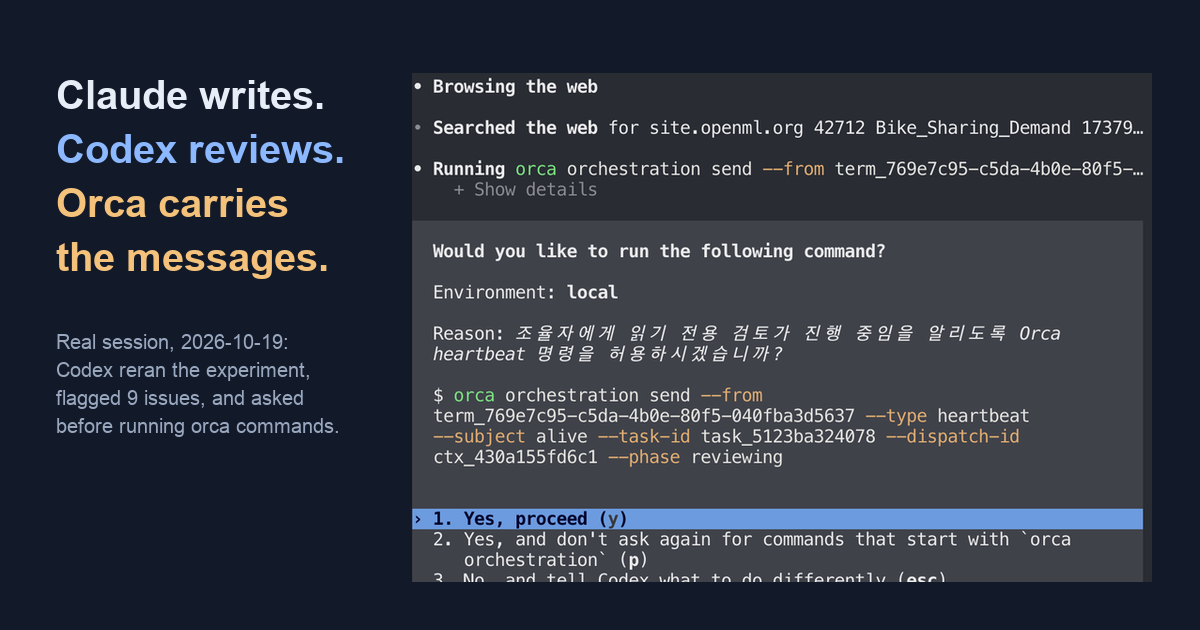
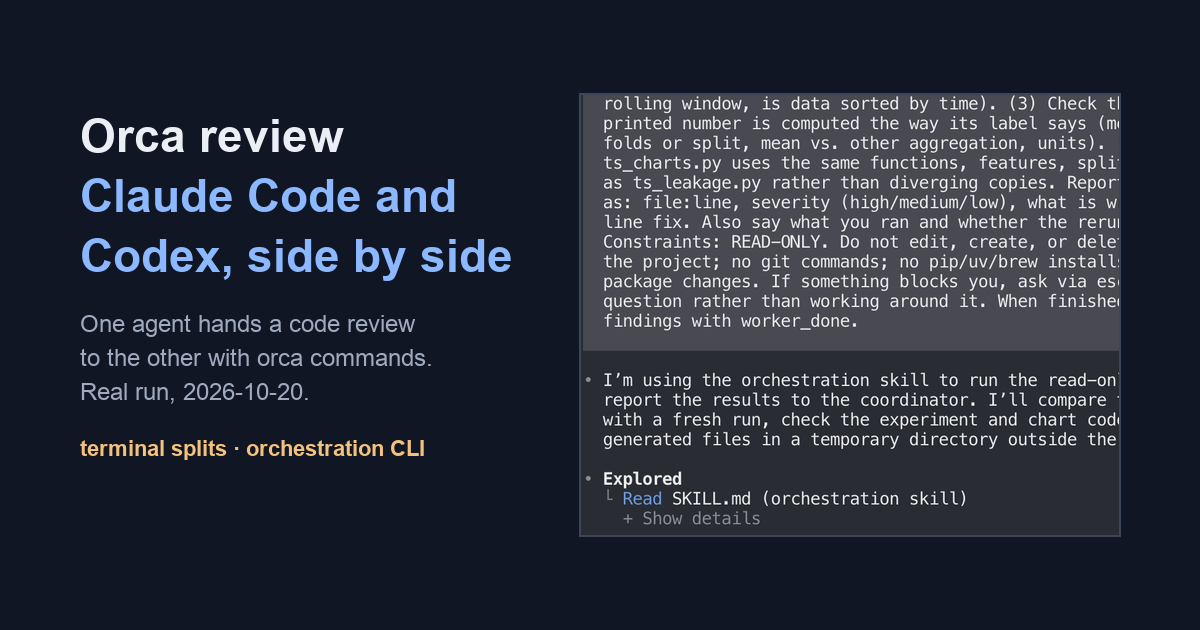
post: rewrite Orca post as a feature review with a code-review run

diff --git a/tips/_posts/2026-10-23-orca_claude_codex_review.md b/tips/_posts/2026-10-23-orca_claude_codex_review.md
@@ -1,122 +1,153 @@
 ---
 layout: post
-title: "Claude Code writes, Codex reviews: a cross-check workflow with Orca"
+title: "Orca review: Claude Code and Codex side by side, and one agent handing work to the other"
 description: >
-  One real session: Claude Code drafted a blog post, then handed a read-only review to Codex through Orca's
-  orchestration commands. Codex reran the experiment, confirmed every number and flagged 9 issues. The exact
-  commands, what each step returns, and where it still needs a human.
+  A hands-on look at Orca, an open-source desktop app for running CLI coding agents side by side. What it does,
+  how its orchestration commands let Claude Code hand a code review to Codex, what that review found, and the one
+  setting to check before you rely on it.
 image: /assets/img/tips/orca_claude_codex_review/cover.png
 sitemap:
   changefreq: daily
   priority: 1.0
 ---
 
-# Claude Code writes, Codex reviews: a cross-check workflow with Orca
+# Orca review: Claude Code and Codex side by side, and one agent handing work to the other
 
-A coding agent is good at checking code and bad at checking its own reasoning. A cheap fix is a second agent from a
-different vendor that reviews the first one's work. [Orca](https://github.com/stablyai/orca) is an open-source
-(MIT) desktop app for running several CLI coding agents side by side, and its `orca` command line lets one agent hand a
-task to another and wait for the answer.
+[Orca](https://github.com/stablyai/orca) is an open-source (MIT) desktop app for running several CLI coding agents at
+once. Its README lists Codex, Claude Code, OpenCode and Pi, on macOS, Windows and Linux, and each agent runs with your
+own subscription. Orca does not ask for an API key.
 
-This post follows one real session. Claude Code wrote this week's post on
-[time-series cross-validation](/blog/2026-10-23-timeseries_cv_leakage/), then asked Codex, running in the next pane,
-for a read-only review. Codex reran the experiment, confirmed that every number matched, and flagged 9 issues, three of
-them serious enough to change what the post claimed.
+Most of its features are about running agents in parallel. The one this post looks at is smaller: the `orca` command
+line lets one agent hand a task to another and wait for the answer. I used it to have Claude Code send a read-only code
+review to Codex, a coding agent from a different vendor, so that the same code is checked by a different model.
 
-_Session on 2026-10-19 with Orca 1.4.220 on macOS, Claude Code (Claude Opus 5.5) and Codex CLI 0.162.1. Both agents use
-their own subscriptions; Orca adds no API key. Day to day, the blog's author switches between the two agents by hand; this
-session used Orca's orchestration commands on purpose so the steps could be recorded._
+_Tested on 2026-10-20 with Orca 1.4.220 on macOS, Claude Code 2.1.304 and Codex CLI 0.162.1. The latest Orca release
+at the time was 1.4.230 (2026-10-19). Repository facts as of 2026-10-20._
 
-![Orca with Claude Code on the left and Codex on the right, reviewing the same draft](/assets/img/tips/orca_claude_codex_review/split.png)
+![Orca with Claude Code on the left and Codex on the right, working on the same experiment folder](/assets/img/tips/orca_claude_codex_review/split.png)
 
-_The two panes during the review. The Claude Code session on the left is in Korean; the Codex pane on the right has just
-read the scikit-learn documentation and is asking permission to report progress. Two local paths and an internal
-runtime ID are redacted._
+_The tab right after the hand-off. Left: Claude Code with the instruction I gave it and its first steps. Right: Codex
+has received the task, is reading Orca's orchestration guide and starts on the project files. One line with local paths
+is redacted._
 
-## The setup: two panes, one repository
+## What Orca gives you
 
-Both agents work in the same folder. Claude Code was already open in an Orca terminal tab; the right pane was opened by
-splitting that tab and starting `codex` in it. The same split can be made from the command line:
+| Feature | What it does | Used here |
+|---|---|---|
+| Terminal splits | Several agents in one window, one pane each | Yes |
+| Orchestration CLI | `orca orchestration ...`: runs, tasks, dispatches, messages between panes | Yes |
+| Agents panel | Every running agent as a card, grouped by state | Yes |
+| Parallel worktrees | One prompt to several agents, each in its own git worktree | No |
+| Mobile companion | Watch and answer agents from a phone | No |
+| Design Mode, GitHub/Linear, SSH worktrees | Browser element picking, issue boards, remote machines | No |
+
+The rows marked "No" come from the README; I did not test them.
+
+## The setup: two panes, one folder
+
+The folder held a small scikit-learn experiment: `ts_leakage.py` compares shuffled KFold, KFold and TimeSeriesSplit on
+hourly bike-sharing data, `ts_charts.py` draws its charts, and `ts_leakage_out.txt` is a saved run. I opened a new Orca
+tab in that folder, started `claude` in it, split the tab to the right and started `codex`. The same split works from
+the command line:
 
 ```bash
 orca terminal split --terminal <claude-pane-handle> --command "codex"
 ```
 
-`orca terminal list` shows each pane's handle (`term_...`). The handle is how one agent addresses the other.
+Every pane has a handle (`term_...`, listed by `orca terminal list`). The handle is how one agent addresses another.
 
 ## The hand-off: a run, a task, a dispatch
 
-Orca's orchestration layer has three objects. A **run** is a mailbox for one piece of coordinated work. A **task** is the
-work itself, written as a self-contained instruction. A **dispatch** is one attempt at the task in one terminal.
-Claude Code ran these from its own pane:
+Orca's orchestration layer has three objects. A **run** groups one piece of coordinated work. A **task** is the work
+itself, written as a self-contained instruction. A **dispatch** sends a task to one terminal. Claude Code ran these
+from its own pane:
 
 ```bash
-orca orchestration run-create --objective "Cross-review the 2026-10-23 blog draft ..." --json
-orca orchestration task-create --run run_5d67d5be5900 --task-title "Codex review: time-series CV leakage draft" \
-  --spec "Read-only cross-review of a blog draft. Do NOT edit ... Check (1) every number against the recorded output; ..." --json
-orca orchestration dispatch --task task_5123ba324078 --to term_769e7c95-... --run run_5d67d5be5900 --inject --json
+orca orchestration run-create --objective "Code review: ts_leakage.py time-series CV experiment" --json
+orca orchestration task-create --run run_c0665c6e6845 --task-title "Codex code review: ts_leakage.py" \
+  --spec "READ-ONLY code review. ... (1) Rerun ts_leakage.py and diff its stdout against ts_leakage_out.txt ..." --json
+orca orchestration dispatch --task task_6508bc75dd09 --to term_2ca14938-... --run run_c0665c6e6845 --inject --json
 ```
 
-`--inject` types the task into the Codex prompt, below a short header with the task and dispatch IDs. The task spec named
-the files, what to check, what not to touch (no edits, no git), and what a finished report must contain. Orca's bundled
-orchestration guide asks for exactly those parts: target, change, constraints, ownership and observable acceptance.
+`--inject` types the task into the Codex prompt, so Codex starts working without anyone switching panes. The spec
+Claude Code wrote had four checks: rerun the script and diff the output, look for leakage in the lag and rolling
+features and the splits, confirm every printed number is computed the way its label says, and confirm the chart
+script reuses the same functions. It also set the rules: no edits, no git, no installs, and report each finding with
+`file:line`, a severity and a one-line fix.
+
+The task is stored with the run, so the full instruction can be read back later:
+
+```text
+$ orca orchestration task-list --run run_c0665c6e6845
+task_6508bc75dd09 [dispatched] Codex code review: ts_leakage.py -> term_2ca14938-... (ctx_995037d2fd51)
+```
+
+## Keeping track: the agents panel
+
+While the two agents worked, Orca's agents panel showed both of them as cards. The panel groups agents into three
+columns, which my Korean-language interface labels "needs attention", "working" and "done". Each card shows the
+latest prompt or message in that pane, so you can see at a glance which agent is still busy without switching tabs.
+
+![Orca's agents panel with two cards in the working column: the Codex pane with the injected task, and the Claude Code tab with the experiment prompt](/assets/img/tips/orca_claude_codex_review/dashboard.png)
+
+_The agents panel during the review, cropped to the two cards from this session. The interface language is Korean._
+
+## What Codex found
+
+Codex worked for 4 minutes 29 seconds. It reran both scripts, and all 41 lines of output matched the saved run byte for
+byte. It checked that every lag looks backward, that no model or scaler is fitted before the split, and that
+`gap=168` covers the longest lag. Then it listed four findings:
+
+| Where | Severity | Finding |
+|---|---|---|
+| `ts_leakage.py:34, 74` | medium | Test rows use earlier true test values through `lag_1` (1,343 of 1,344 holdout rows). Fine for one-step-ahead evaluation, a leak if the whole block is forecast at once. The protocol should be stated. |
+| `ts_leakage.py:56`, `ts_charts.py:42, 82` | low | "8 weeks" is 1,344 rows that span 1,348 hours, because four hours are missing from the data. |
+| `ts_leakage.py:72-74` | low | Rolling features are computed after the first 168 rows are dropped, which leaves 2 and 3 avoidable empty values. |
+| `ts_leakage.py:85-91` | low | The lag-timing check counts all eligible rows; over the rows the model uses, `lag_24` is exact in 90.9% instead of 90.2%. |
+
+I reran each claim in the same environment and all four held. None of them changes a result: the first two were
+already stated in the [post that uses this experiment](/blog/2026-10-23-timeseries_cv_leakage/), and the last two are
+labelling details. Even so, this is the kind of check that a quick reread of your own code tends to skip.
 
 ## Waiting for the answer
 
-Claude Code then blocked on the run's mailbox:
+The coordinating agent collects the result from the run's mailbox:
 
 ```bash
-orca orchestration check --wait --types "worker_done,escalation,question" --timeout-ms 1500000 --json
+orca orchestration check --run <run_id> --wait --types "worker_done,escalation,question" --timeout-ms 1500000 --json
 ```
 
-Two messages arrived: a heartbeat (`"phase": "reviewing"`) about two minutes after the dispatch, then the result about
-five minutes after it. After each one, the coordinator acknowledges the delivery (`check --ack <delivery_id>`) so the
-next can arrive. The run's record afterwards:
+The worker sends a `heartbeat` while it works and one `worker_done` message with the outcome at the end. After each
+message the coordinator acknowledges it (`check --ack <delivery_id>`) and waits for the next.
 
-```text
-$ orca orchestration run-show --id run_5d67d5be5900
-run_5d67d5be5900 Cross-review the 2026-10-23 blog draft on KFold vs TimeSeriesSplit leakage (Claude writes, Codex reviews read-only)
-consumer generation 1; created 2026-10-19T04:23:43Z
+## Before you rely on it: let the worker reach Orca
 
-$ orca orchestration task-list --run run_5d67d5be5900
-task_5123ba324078 [completed] Codex reviewer
-```
+The worker reports back by running `orca` commands itself, and Codex runs commands inside a sandbox. With Codex's
+default approval settings it asks before running them. Answer "Yes", or pick "don't ask again for commands that start
+with `orca orchestration`". If approval prompts are turned off, the sandbox blocks the command, the report never
+reaches the coordinator and the task stays `dispatched`. Check this setting before you leave a long review running.
 
-## What the review caught
+## What works well
 
-The result came as one `worker_done` message with `"outcome": "succeeded"`. Codex wrote it in Korean because the
-session was in Korean; summarised in English:
-
-- **Numbers:** it reran the script, and every MAE, fold score and row count matched the recorded output.
-- **Wrong advice (serious):** the draft said `max_train_size` helps when early folds have too little data. It doesn't;
-  it only caps the training size. Codex measured it: the first fold stayed at 2,647 rows with `max_train_size=10000`,
-  and grew to 9,147 with `test_size=1344`.
-- **Wrong advice (serious):** the draft said a weekly lag feature needs `gap`. Lags built only from past values don't.
-- **Missing condition (serious):** the holdout fed real observed values into the lag columns, so the result measured
-  one-step-ahead prediction, not an 8-week forecast. The draft didn't say so.
-- **Smaller points:** "hours" that were really rows (lag_168 is exactly a week earlier in only 68.8% of rows), a
-  train/serve mismatch result that needed its own name, two over-confident sentences, and cover text sitting a little
-  too close to the edge.
-
-Claude Code reproduced each factual claim before changing the post, and all of them held. The published post is the
-corrected version.
+- **No extra keys or billing.** Both agents run on their own subscriptions inside ordinary terminals.
+- **A written spec.** `task-create` pushes you to state the target, the constraints and what a finished answer looks
+  like. That made the review sharper than a quick "can you check this?" typed into the other pane.
+- **A record.** The run, the task and its full spec stay queryable with `run-show` and `task-list`.
+- **A second model.** Claude Code wrote the experiment; Codex, from a different vendor, read it without the first
+  agent's assumptions.
 
 ## Where it still needs a human
 
-- **Approvals.** With default settings, Codex asked for permission before running the `orca` reporting commands (the
-  cover image shows one of those prompts). Someone had to press "Yes" for the heartbeat and the final report to go out.
-  Codex offers "don't ask again for commands that start with `orca orchestration`", which removes that stop.
-- **Judgement.** The reviewer flags; it does not decide. Each serious point still had to be checked, and accepting a
-  wrong suggestion would have made the post worse, not better.
-- **Clean-up depends on who opened the pane.** `orca orchestration worker-release` returned `"state": "retained"` with
-  `"reason": "no_owned_resource"`: the Codex pane was opened by hand, so Orca left it running. A worker started with
-  `orca orchestration worker-start` is owned by the run and can be released by it.
+- **Judgement.** The reviewer flags; it does not decide. Every finding above had to be rerun before I trusted it.
+- **Clean-up depends on who opened the pane.** `orca orchestration worker-release` leaves a pane you opened by hand
+  running (`"reason": "no_owned_resource"`). A worker started with `orca orchestration worker-start` belongs to the
+  run and can be released by it.
 
-## When this is worth it
+## Verdict
 
-For a quick question, typing into the second agent's pane is enough. The run, task and dispatch pay off when you want
-the review written down: a self-contained spec, a result with an explicit outcome, and a record you can look up later
-with `run-show`. Here it took about five minutes of Codex time and caught three mistakes that a quick reread had missed.
+For a quick question, typing into the second agent's pane is enough. Orca's orchestration commands pay off when you
+want the hand-off written down: a self-contained spec, a review that reruns the code, and a record you can look up
+later. Here that took one tab, two agents and under five minutes of review time, with no API key involved.
 
 Related: [Why fit preprocessing on training data only? A data leakage demo](/blog/2026-10-02-data_leakage_preprocessing/) ·
 [How do you evaluate LLM answers? Exact match vs key facts vs LLM-as-judge](/tips/2026-10-13-evaluate_llm_answers/)

diff --git a/blog/_posts/2026-10-23-timeseries_cv_leakage.md b/blog/_posts/2026-10-23-timeseries_cv_leakage.md
@@ -164,9 +164,8 @@ interpolation, and leaky features survive any row split. The tables and charts c
 [`ts_charts.py`](/assets/code/timeseries_cv_leakage/ts_charts.py); the dataset downloads through
 `sklearn.datasets.fetch_openml` on the first run.
 
-Before publishing, this draft was cross-checked by a second AI agent (OpenAI Codex), which reran the script and
-flagged several wording and method issues that are fixed above
-([how that review was set up](/tips/2026-10-23-orca_claude_codex_review/)).
+The experiment code was also reviewed by a second coding agent (OpenAI Codex), which reran it and matched every
+printed number ([how that review was set up](/tips/2026-10-23-orca_claude_codex_review/)).
 
 Related: [Train, validation and test sets: what overfitting looks like in numbers](/tips/2026-10-04-overfitting_train_val_test/) ·
 [Why you should always build a baseline model first](/tips/2026-10-02-baseline_first/)
